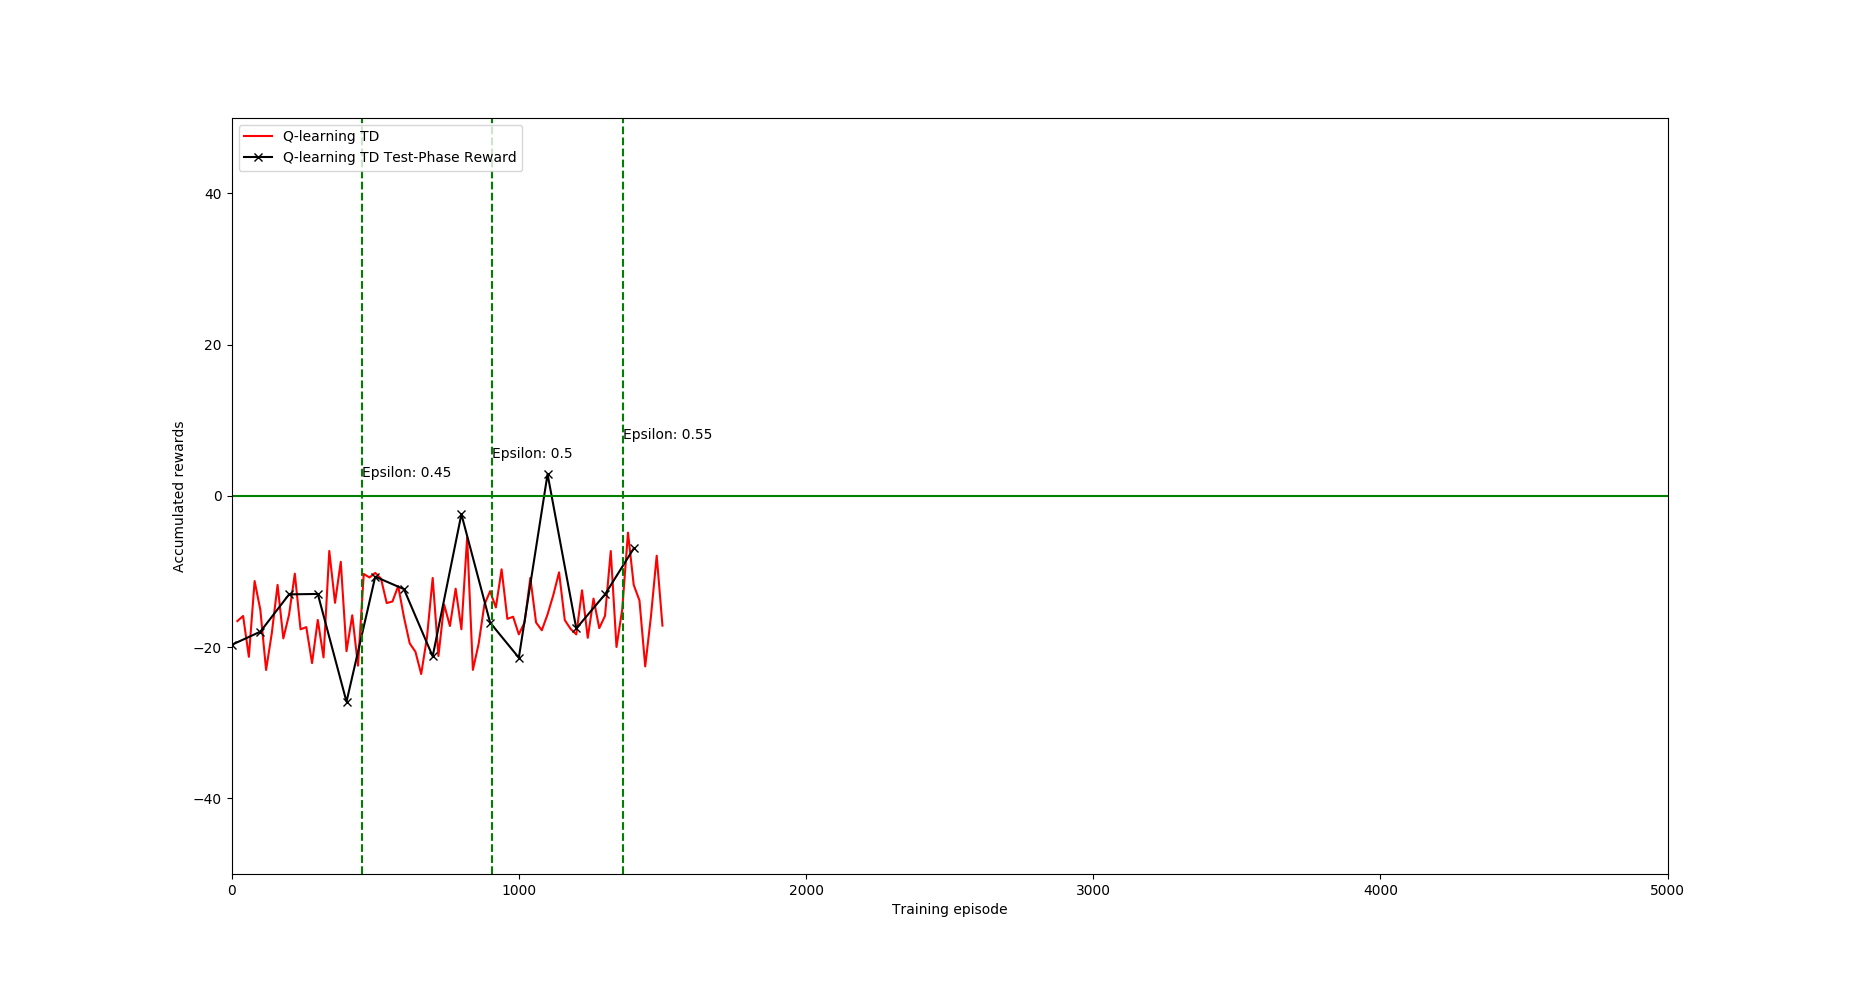
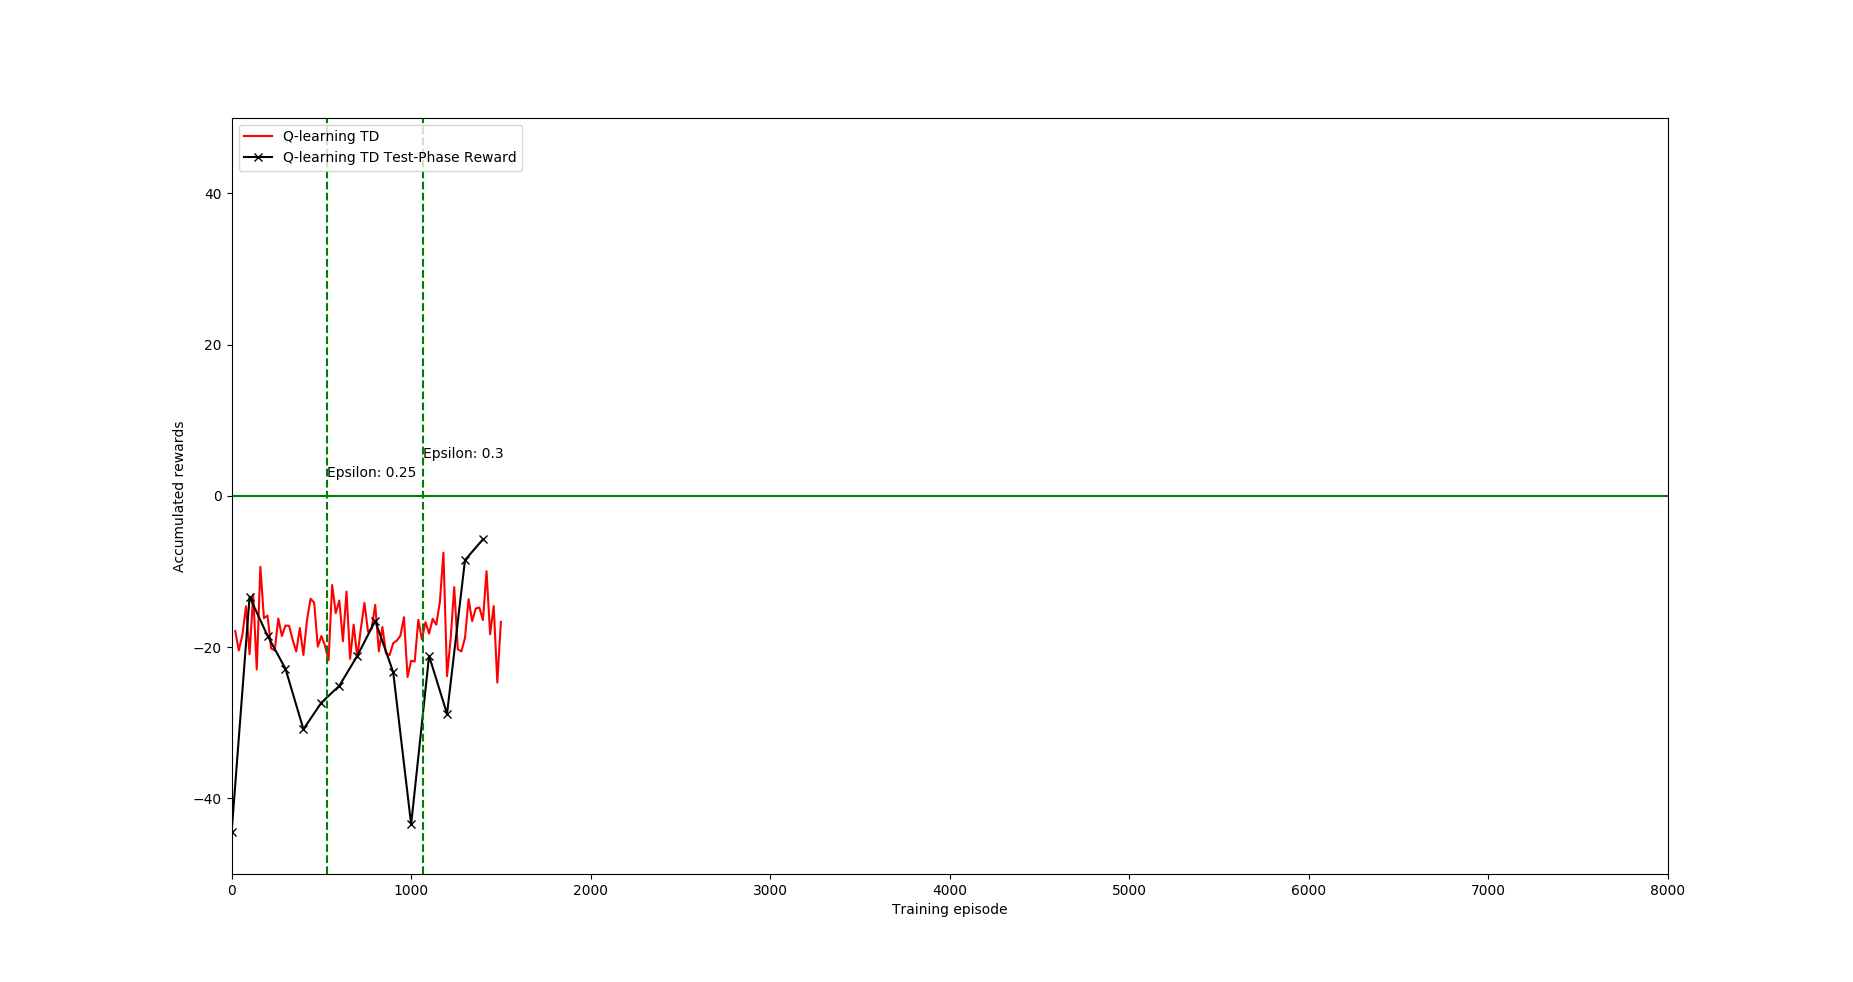
Decent Policy, after training for 8000 episodes

diff --git a/src/robot_tag.py b/src/robot_tag.py
@@ -38,8 +38,7 @@ DISTANCE_BETWEEN_PLAYERS = None
 LASERSCAN_MAX_RANGE = None 
 
 
-STARTING_LOCATIONS = [(0.5,0), (-1.5,0), (-0.5,1), (0.5,1), \
-    (-0.5,-1), (-0.5, -1), (1.2, 0), (-1.2,0), (-1,2), (-1,-2)]
+STARTING_LOCATIONS = [(0,1), (-2,1), (0,-1), (0,2), (0,-2)]
 # Gameplay hyperparameters
 TIMEOUT = False
 GAME_TIME = 30 # a round/traning episode last maximum 30 seconds
@@ -786,9 +785,9 @@ def main():
                 global Q_TABLE_EVADER
                 Q_TABLE_EVADER = pickle.load(q_table_file)
     # rospy.spin()
-    # train(train_type = "pursuer", starting_epsilon=0.4, total_episodes=5000)
-    test("pursuer", total_episodes= 50)
-# 
+    train(train_type = "pursuer", starting_epsilon=0.4, total_episodes=5000)
+    # test("pursuer", total_episodes= 50)
+ 
 
 if __name__ == "__main__":
     main()
